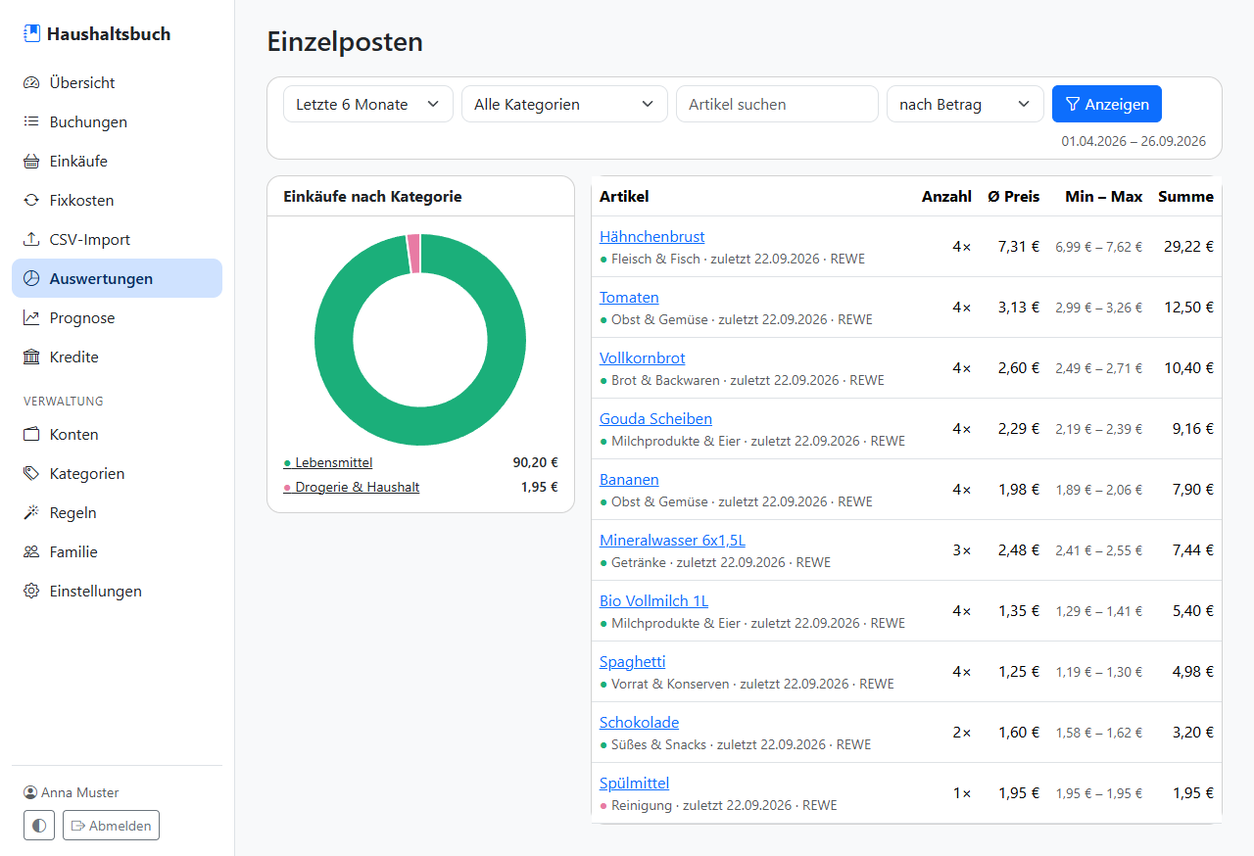
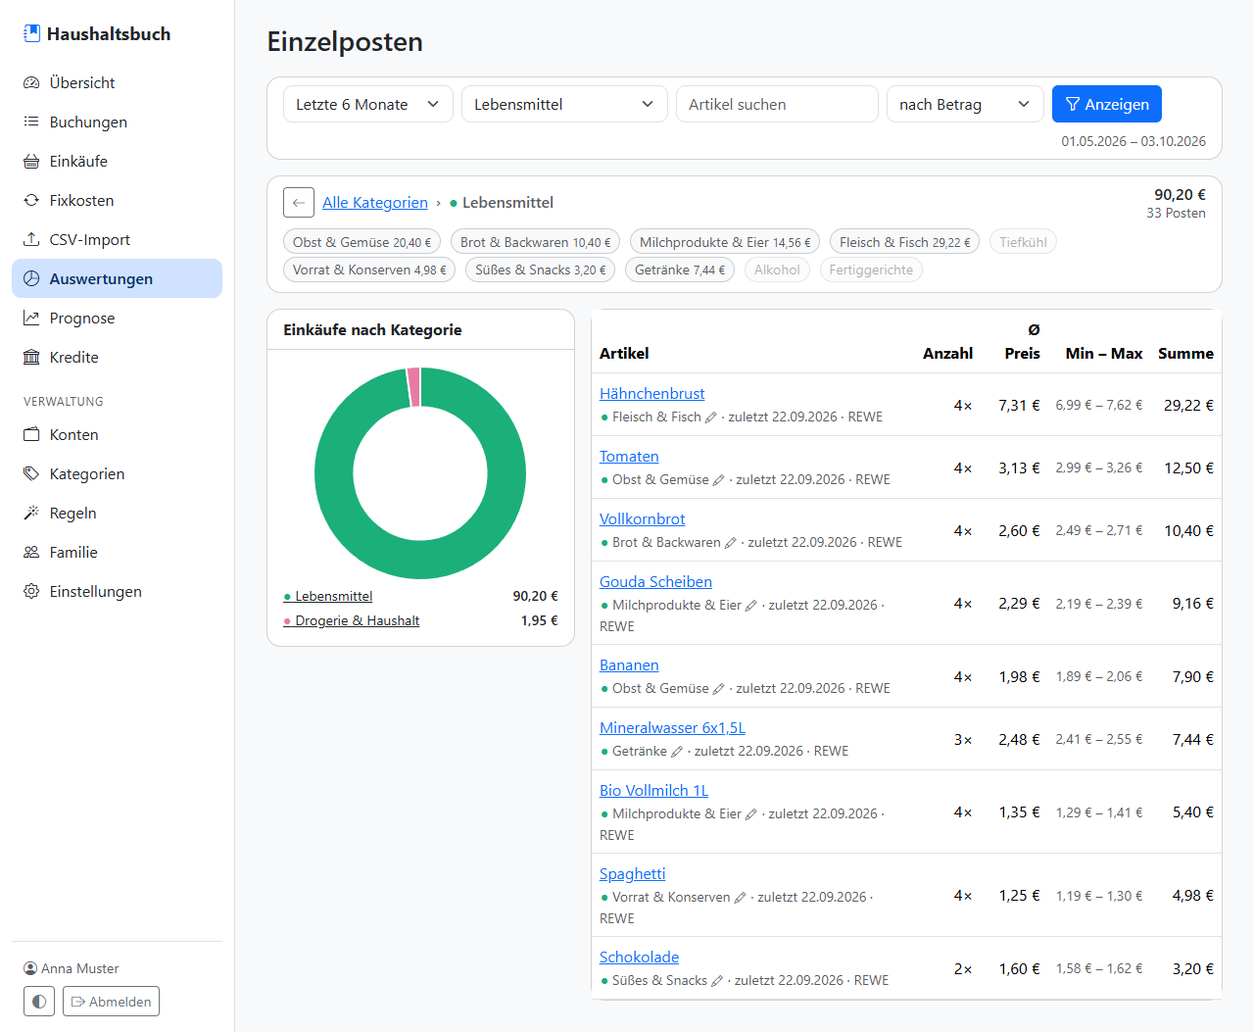
Einzelposten: Kategorie-Pfad mit Summe und Kategorie-Korrektur
- Zusammenfassungszeile unter dem Filter: Zurück-Pfeil, Breadcrumb
  (Alle › Ober- › Unterkategorie) mit Links, Summe und Anzahl der Posten;
  in einer Oberkategorie die Unterkategorien grau als Auswahl mit Summe
- Filter „Ohne Kategorie“ (category_id=0)
- Kategorie eines Artikels direkt in der Liste korrigieren: gilt für alle
  sichtbaren Käufe und wird als Produkt-Standard gelernt
- Auswertung nutzt durchgehend die wirksame Kategorie (Posten, sonst Produkt)
- Anleitung, README und Screenshot aktualisiert

diff --git a/public/assets/css/app.css b/public/assets/css/app.css
@@ -132,3 +132,9 @@ body.guest { display: flex; align-items: center; justify-content: center; min-he
 .more-grid a { display: flex; flex-direction: column; align-items: center; gap: .4rem; padding: 1.1rem .5rem; border-radius: var(--radius);
     background: var(--bs-body-bg); border: 1px solid var(--bs-border-color-translucent); color: var(--bs-body-color); text-decoration: none; }
 .more-grid a i { font-size: 1.7rem; color: var(--bs-primary); }
+
+/* Einzelposten: Kategorie-Pfad mit ausgegrauten Unterkategorien zur Auswahl */
+.breadcrumb { --bs-breadcrumb-divider: '›'; row-gap: .25rem; }
+.sub-choice { display: inline-block; margin: 0 .35rem .15rem 0; padding: .1rem .55rem; border-radius: 1rem; font-size: .875rem;
+    color: var(--bs-secondary-color); background: var(--bs-tertiary-bg); border: 1px solid var(--bs-border-color-translucent); text-decoration: none; }
+.sub-choice:hover { color: var(--bs-body-color); border-color: var(--bs-secondary-color); }

diff --git a/app/Views/reports/items.php b/app/Views/reports/items.php
@@ -4,6 +4,7 @@ use App\Core\View;
 ob_start(); ?>
 <select name="category_id" class="form-select w-auto">
     <option value="">Alle Kategorien</option>
+    <option value="0" <?= selected(0, $categoryId) ?>>Ohne Kategorie</option>
     <?php foreach ($categories as $c): ?><option value="<?= (int) $c['id'] ?>" <?= selected($c['id'], $categoryId) ?>><?= $c['parent_id'] ? '&nbsp;&nbsp;' : '' ?><?= e($c['name']) ?></option><?php endforeach; ?>
 </select>
 <input class="form-control w-auto" name="q" value="<?= e($q) ?>" placeholder="Artikel suchen">
@@ -14,6 +15,48 @@ ob_start(); ?>
 </select>
 <?php $extra = ob_get_clean(); ?>
 <?= View::partial('partials/period_filter', compact('period', 'from', 'to', 'extra') + ['action' => '/reports/items']) ?>
+
+<?php
+// Links der Breadcrumb-Zeile behalten Zeitraum, Suche und Sortierung
+$base = ['period' => $period, 'from' => $from, 'to' => $to, 'q' => $q !== '' ? $q : null, 'sort' => $sort !== 'total' ? $sort : null];
+$catUrl = fn (?int $id) => url('/reports/items', $base + ['category_id' => $id]);
+$upUrl = $categoryId === null ? null : $catUrl($parentCat ? (int) $parentCat['id'] : null);
+?>
+<div class="card mb-3">
+    <div class="card-body py-2">
+        <div class="d-flex align-items-center gap-2">
+            <?php if ($upUrl): ?>
+                <a class="btn btn-sm btn-outline-secondary" href="<?= e($upUrl) ?>" title="Eine Ebene höher" aria-label="Eine Ebene höher"><i class="bi bi-arrow-left"></i></a>
+            <?php endif; ?>
+            <nav aria-label="Kategorie-Pfad" class="flex-grow-1" style="min-width: 0">
+                <ol class="breadcrumb mb-0">
+                    <?php if ($categoryId === null): ?>
+                        <li class="breadcrumb-item active fw-semibold" aria-current="page">Alle Kategorien</li>
+                    <?php else: ?>
+                        <li class="breadcrumb-item"><a href="<?= e($catUrl(null)) ?>">Alle Kategorien</a></li>
+                        <?php if ($parentCat): ?>
+                            <li class="breadcrumb-item"><a href="<?= e($catUrl((int) $parentCat['id'])) ?>"><span style="color: <?= e($parentCat['color']) ?>">●</span> <?= e($parentCat['name']) ?></a></li>
+                        <?php endif; ?>
+                        <li class="breadcrumb-item active fw-semibold" aria-current="page">
+                            <?php if ($current): ?><span style="color: <?= e($current['color']) ?>">●</span> <?= e($current['name']) ?><?php else: ?>Ohne Kategorie<?php endif; ?>
+                        </li>
+                    <?php endif; ?>
+                </ol>
+            </nav>
+            <div class="text-end text-nowrap lh-sm">
+                <strong class="amount"><?= money($summary['total']) ?></strong>
+                <div class="small text-body-secondary"><?= (int) $summary['count'] ?> Posten<?= $q !== '' ? ' · Suche' : '' ?></div>
+            </div>
+        </div>
+        <?php if ($children): ?>
+            <div class="mt-2">
+                <?php foreach ($children as $ch): ?>
+                    <a class="sub-choice<?= $ch['total'] > 0 ? '' : ' opacity-50' ?>" href="<?= e($catUrl((int) $ch['id'])) ?>"><?= e($ch['name']) ?><?php if ($ch['total'] > 0): ?> <span class="small"><?= money($ch['total']) ?></span><?php endif; ?></a>
+                <?php endforeach; ?>
+            </div>
+        <?php endif; ?>
+    </div>
+</div>
 
 <?php
 $top = array_slice($byCategory, 0, 7);
@@ -48,15 +91,34 @@ if ($rest) {
                     <thead><tr><th>Artikel</th><th class="text-end">Anzahl</th><th class="text-end d-none d-md-table-cell">Ø Preis</th><th class="text-end d-none d-md-table-cell">Min – Max</th><th class="text-end">Summe</th></tr></thead>
                     <tbody>
                     <?php foreach ($rows as $r): ?>
-                        <tr>
+                        <?php $mixed = (int) $r['category_count'] > 1; ?>
+                        <tr x-data="{ edit: false }">
                             <td>
                                 <?php if ($r['product_id']): ?>
                                     <a href="<?= e(url('/reports/product', ['id' => $r['product_id']])) ?>"><?= e($r['name']) ?></a>
                                 <?php else: ?><?= e($r['name']) ?><?php endif; ?>
                                 <div class="small text-body-secondary">
-                                    <?php if ($r['category_name']): ?><span style="color: <?= e($r['category_color']) ?>">●</span> <?= e($r['category_name']) ?> · <?php endif; ?>
-                                    zuletzt <?= e(date_de($r['last_date'])) ?><?= $r['stores'] ? ' · ' . e(mb_strimwidth($r['stores'], 0, 40, '…')) : '' ?>
+                                    <button type="button" class="btn btn-link btn-sm p-0 align-baseline text-body-secondary text-decoration-none" @click="edit = !edit" title="Kategorie korrigieren">
+                                        <?php if ($mixed): ?>mehrere Kategorien
+                                        <?php elseif ($r['category_name']): ?><span style="color: <?= e($r['category_color']) ?>">●</span> <?= e($r['category_name']) ?>
+                                        <?php else: ?>ohne Kategorie<?php endif; ?>
+                                        <i class="bi bi-pencil small"></i>
+                                    </button>
+                                    · zuletzt <?= e(date_de($r['last_date'])) ?><?= $r['stores'] ? ' · ' . e(mb_strimwidth($r['stores'], 0, 40, '…')) : '' ?>
                                 </div>
+                                <form method="post" action="<?= e(url('/reports/items/category')) ?>" class="mt-2" x-show="edit" x-cloak style="display: none">
+                                    <?= csrf_field() ?>
+                                    <input type="hidden" name="product_id" value="<?= (int) $r['product_id'] ?>">
+                                    <input type="hidden" name="name" value="<?= e($r['item_name']) ?>">
+                                    <div class="d-flex gap-2">
+                                        <?= View::partial('partials/category_select', [
+                                            'categories' => $categories, 'name' => 'category_id', 'type' => 'expense',
+                                            'selected' => $mixed ? null : $r['category_id'], 'class' => 'form-select form-select-sm',
+                                        ]) ?>
+                                        <button class="btn btn-sm btn-primary text-nowrap"><i class="bi bi-check-lg"></i> Speichern</button>
+                                    </div>
+                                    <div class="form-text">Gilt für alle Käufe dieses Artikels<?= $r['product_id'] ? ' und künftige Vorschläge' : '' ?>.</div>
+                                </form>
                             </td>
                             <td class="text-end"><?= (int) $r['cnt'] ?>×</td>
                             <td class="table-amount d-none d-md-table-cell"><?= money($r['avg_price']) ?></td>

diff --git a/app/Services/ReportService.php b/app/Services/ReportService.php
@@ -212,24 +212,42 @@ final class ReportService
     }
 
     /**
+     * Wirksame Kategorie eines Postens (Alias i, Produkt pr): eigene Kategorie, sonst die gelernte des Produkts.
+     */
+    private const ITEM_CAT = 'COALESCE(i.category_id, pr.default_category_id)';
+
+    /**
+     * Gemeinsamer Filter der Einzelposten-Auswertung (Aliase i, p, pr).
+     * $categoryId: null = alle, 0 = ohne Kategorie, sonst die Kategorie samt Unterkategorien.
+     * @return array{0:string, 1:array}
+     */
+    private function itemScope(string $from, string $to, ?int $categoryId = null, string $q = ''): array
+    {
+        $sql = "p.household_id = ? AND (p.account_id IS NULL OR p.account_id IN ({$this->in()})) AND p.purchase_date BETWEEN ? AND ?";
+        $params = [$this->householdId, ...$this->accountIds, $from, $to];
+        if ($categoryId === 0) {
+            $sql .= ' AND ' . self::ITEM_CAT . ' IS NULL';
+        } elseif ($categoryId) {
+            $sql .= ' AND (' . self::ITEM_CAT . ' = ? OR ' . self::ITEM_CAT . ' IN (SELECT id FROM categories WHERE parent_id = ?))';
+            $params[] = $categoryId;
+            $params[] = $categoryId;
+        }
+        if ($q !== '') {
+            $sql .= ' AND (i.name LIKE ? OR pr.name LIKE ?)';
+            $like = '%' . str_replace(['%', '_'], ['\%', '\_'], $q) . '%';
+            $params[] = $like;
+            $params[] = $like;
+        }
+        return [$sql, $params];
+    }
+
+    /**
      * Einzelposten-Auswertung: gruppiert nach Produkt.
      * Einkäufe ohne Konto sind für alle sichtbar, sonst nur mit Leserecht auf das Konto.
      */
     public function items(string $from, string $to, ?int $categoryId = null, string $q = '', string $sort = 'total', int $limit = 200): array
     {
-        $params = [$this->householdId, ...$this->accountIds, $from, $to];
-        $where = '';
-        if ($categoryId) {
-            $where .= ' AND (i.category_id = ? OR i.category_id IN (SELECT id FROM categories WHERE parent_id = ?))';
-            $params[] = $categoryId;
-            $params[] = $categoryId;
-        }
-        if ($q !== '') {
-            $where .= ' AND (i.name LIKE ? OR pr.name LIKE ?)';
-            $like = '%' . str_replace(['%', '_'], ['\%', '\_'], $q) . '%';
-            $params[] = $like;
-            $params[] = $like;
-        }
+        [$where, $params] = $this->itemScope($from, $to, $categoryId, $q);
         $order = match ($sort) {
             'count' => 'cnt DESC',
             'name'  => 'name ASC',
@@ -237,38 +255,68 @@ final class ReportService
             default => 'total DESC',
         };
         return $this->rows(
-            "SELECT COALESCE(pr.id, 0) AS product_id, COALESCE(pr.name, i.name) AS name,
+            "SELECT COALESCE(pr.id, 0) AS product_id, COALESCE(pr.name, i.name) AS name, MIN(i.name) AS item_name,
                     COUNT(*) AS cnt, SUM(i.quantity) AS qty, SUM(i.total_price) AS total,
                     AVG(i.unit_price) AS avg_price, MIN(i.unit_price) AS min_price, MAX(i.unit_price) AS max_price,
                     MAX(p.purchase_date) AS last_date, GROUP_CONCAT(DISTINCT p.store SEPARATOR ', ') AS stores,
-                    c.name AS category_name, c.color AS category_color, c.icon AS category_icon
+                    MAX(c.id) AS category_id, MAX(c.name) AS category_name, MAX(c.color) AS category_color,
+                    COUNT(DISTINCT c.id) AS category_count
              FROM purchase_items i
              JOIN purchases p ON p.id = i.purchase_id
              LEFT JOIN products pr ON pr.id = i.product_id
-             LEFT JOIN categories c ON c.id = COALESCE(i.category_id, pr.default_category_id)
-             WHERE p.household_id = ? AND (p.account_id IS NULL OR p.account_id IN ({$this->in()}))
-               AND p.purchase_date BETWEEN ? AND ? $where
+             LEFT JOIN categories c ON c.id = " . self::ITEM_CAT . "
+             WHERE $where
              GROUP BY COALESCE(pr.id, CONCAT('n:', i.name))
              ORDER BY $order LIMIT " . (int) $limit,
             $params
         );
     }
 
-    /** Posten-Summen je Kategorie (nur Einkäufe) */
+    /** Summe und Anzahl der Posten zum Filter (unabhängig vom Zeilenlimit der Liste) */
+    public function itemsSummary(string $from, string $to, ?int $categoryId = null, string $q = ''): array
+    {
+        [$where, $params] = $this->itemScope($from, $to, $categoryId, $q);
+        $r = $this->rows(
+            "SELECT COALESCE(SUM(i.total_price), 0) AS total, COUNT(*) AS cnt
+             FROM purchase_items i JOIN purchases p ON p.id = i.purchase_id LEFT JOIN products pr ON pr.id = i.product_id
+             WHERE $where",
+            $params
+        )[0];
+        return ['total' => (float) $r['total'], 'count' => (int) $r['cnt']];
+    }
+
+    /** @return array<int, float> Unterkategorie-ID => Summe der Posten (nur Unterkategorien von $parentId) */
+    public function itemsBySubcategory(string $from, string $to, int $parentId, string $q = ''): array
+    {
+        [$where, $params] = $this->itemScope($from, $to, $parentId, $q);
+        $out = [];
+        foreach ($this->rows(
+            'SELECT ' . self::ITEM_CAT . " AS id, SUM(i.total_price) AS total
+             FROM purchase_items i JOIN purchases p ON p.id = i.purchase_id LEFT JOIN products pr ON pr.id = i.product_id
+             WHERE $where GROUP BY " . self::ITEM_CAT,
+            $params
+        ) as $r) {
+            $out[(int) $r['id']] = (float) $r['total'];
+        }
+        return $out;
+    }
+
+    /** Posten-Summen je Hauptkategorie (nur Einkäufe) */
     public function itemsByCategory(string $from, string $to): array
     {
+        [$where, $params] = $this->itemScope($from, $to);
         $rows = $this->rows(
             "SELECT COALESCE(c.parent_id, c.id) AS id, SUM(i.total_price) AS total, COUNT(*) AS cnt
              FROM purchase_items i JOIN purchases p ON p.id = i.purchase_id
-             LEFT JOIN categories c ON c.id = i.category_id
-             WHERE p.household_id = ? AND (p.account_id IS NULL OR p.account_id IN ({$this->in()}))
-               AND p.purchase_date BETWEEN ? AND ?
+             LEFT JOIN products pr ON pr.id = i.product_id
+             LEFT JOIN categories c ON c.id = " . self::ITEM_CAT . "
+             WHERE $where
              GROUP BY COALESCE(c.parent_id, c.id) ORDER BY total DESC",
-            [$this->householdId, ...$this->accountIds, $from, $to]
+            $params
         );
         $cats = $this->categoryMap();
         return array_map(fn ($r) => [
-            'id' => $r['id'] ? (int) $r['id'] : null,
+            'id' => $r['id'] ? (int) $r['id'] : 0,
             'name' => $r['id'] ? ($cats[(int) $r['id']]['name'] ?? '?') : 'Ohne Kategorie',
             'color' => $r['id'] ? ($cats[(int) $r['id']]['color'] ?? '#adb5bd') : '#adb5bd',
             'total' => (float) $r['total'], 'count' => (int) $r['cnt'],

diff --git a/app/Controllers/ReportController.php b/app/Controllers/ReportController.php
@@ -9,6 +9,7 @@ use App\Core\Response;
 use App\Repositories\AccountRepository;
 use App\Repositories\CategoryRepository;
 use App\Repositories\ProductRepository;
+use App\Repositories\PurchaseRepository;
 use App\Repositories\TransactionRepository;
 use App\Repositories\UserRepository;
 use App\Services\ReportService;
@@ -53,10 +54,29 @@ final class ReportController extends Controller
     public function items(): void
     {
         [$period, $from, $to] = $this->period('3m');
-        $categoryId = $this->request->int('category_id');
         $q = mb_substr($this->request->str('q'), 0, 100);
         $sort = in_array($this->request->str('sort'), ['total', 'count', 'name', 'price'], true) ? $this->request->str('sort') : 'total';
         $svc = new ReportService($this->hid, Auth::accountIds('view'));
+        $categories = (new CategoryRepository())->all($this->hid, 'expense');
+
+        // Kategorie-Filter: leer = alle, 0 = ohne Kategorie, sonst eine (Unter-)Kategorie des Haushalts
+        $categoryId = $this->request->int('category_id');
+        $byId = array_column($categories, null, 'id');
+        if ($categoryId && !isset($byId[$categoryId])) {
+            $categoryId = null;
+        }
+        $current = $categoryId ? $byId[$categoryId] : null;
+        $parentCat = $current && $current['parent_id'] ? ($byId[(int) $current['parent_id']] ?? null) : null;
+        $children = [];
+        if ($current && !$current['parent_id']) {
+            $sums = $svc->itemsBySubcategory($from, $to, (int) $current['id'], $q);
+            foreach ($categories as $c) {
+                if ((int) $c['parent_id'] === (int) $current['id']) {
+                    $children[] = $c + ['total' => $sums[(int) $c['id']] ?? 0.0];
+                }
+            }
+        }
+
         $this->view('reports/items', [
             'title'      => 'Einzelposten',
             'back'       => '/reports',
@@ -64,13 +84,40 @@ final class ReportController extends Controller
             'from'       => $from,
             'to'         => $to,
             'categoryId' => $categoryId,
+            'current'    => $current,
+            'parentCat'  => $parentCat,
+            'children'   => $children,
             'q'          => $q,
             'sort'       => $sort,
             'rows'       => $svc->items($from, $to, $categoryId, $q, $sort),
+            'summary'    => $svc->itemsSummary($from, $to, $categoryId, $q),
             'byCategory' => $svc->itemsByCategory($from, $to),
-            'categories' => (new CategoryRepository())->all($this->hid, 'expense'),
+            'categories' => $categories,
             'scripts'    => ['vendor/chartjs/chart.umd.min.js'],
         ]);
+    }
+
+    /** Kategorie eines Artikels in allen sichtbaren Einkäufen korrigieren und als Standard lernen */
+    public function recategorize(): void
+    {
+        $productId = $this->request->int('product_id') ?: null;
+        $name = mb_substr($this->request->str('name'), 0, 190);
+        $categoryId = (new CategoryRepository())->validId($this->request->int('category_id'), $this->hid);
+        $products = new ProductRepository();
+        if ($productId && !$products->find($productId, $this->hid)) {
+            $this->back('/reports/items', 'Artikel nicht gefunden.');
+        }
+        if (!$productId && $name === '') {
+            $this->back('/reports/items', 'Artikel fehlt.');
+        }
+        $repo = new PurchaseRepository();
+        $n = $repo->transaction(function () use ($repo, $products, $productId, $name, $categoryId) {
+            if ($productId) {
+                $products->setDefaultCategory($productId, $this->hid, $categoryId);
+            }
+            return $repo->recategorizeItems($this->hid, Auth::accountIds('view'), $productId, $name, $categoryId);
+        });
+        $this->back('/reports/items', $n === 1 ? 'Kategorie für 1 Posten geändert.' : "Kategorie für $n Posten geändert.", 'success');
     }
 
     public function product(): void

diff --git a/app/Repositories/PurchaseRepository.php b/app/Repositories/PurchaseRepository.php
@@ -97,6 +97,20 @@ final class PurchaseRepository extends Repository
         return $v ? (int) $v : null;
     }
 
+    /**
+     * Kategorie aller sichtbaren Posten eines Artikels ändern – über das Produkt oder, bei Posten ohne Produkt,
+     * über den exakten Namen. Gibt die Anzahl geänderter Posten zurück.
+     */
+    public function recategorizeItems(int $householdId, array $accountIds, ?int $productId, string $name, ?int $categoryId): int
+    {
+        $match = $productId ? 'i.product_id = ?' : 'i.product_id IS NULL AND i.name = ?';
+        return $this->exec(
+            'UPDATE purchase_items i JOIN purchases p ON p.id = i.purchase_id SET i.category_id = ?
+             WHERE p.household_id = ? AND ' . $this->visibleSql($accountIds) . " AND $match",
+            [$categoryId, $householdId, ...$accountIds, $productId ?: $name]
+        );
+    }
+
     public function items(int $purchaseId): array
     {
         return $this->many(

diff --git a/bin/screenshots.py b/bin/screenshots.py
@@ -46,7 +46,7 @@ SHOTS = [
     ("einkauf-foto-mobil", "/purchases/new?mode=photo", MOBILE, None, None),
     ("einkauf-hand", "/purchases/new?mode=manual", DESKTOP, None, 1100),
     ("auswertungen", "/reports?period=6m", DESKTOP, None, 1600),
-    ("auswertung-posten", "/reports/items?period=6m", DESKTOP, None, 1100),
+    ("auswertung-posten", "/reports/items?period=6m&category_id=1", DESKTOP, None, 1100),
     ("prognose", "/forecast", DESKTOP, None, 1500),
     ("szenario", "/forecast/scenarios/1/edit", DESKTOP, None, None),
     ("kredit", "/loans/1", DESKTOP, None, 1400),

diff --git a/app/routes.php b/app/routes.php
@@ -81,6 +81,7 @@ $router->post('/purchases/candidates', [PurchaseController::class, 'candidates']
 // Auswertungen & Prognose
 $router->get('/reports', [ReportController::class, 'index']);
 $router->get('/reports/items', [ReportController::class, 'items']);
+$router->post('/reports/items/category', [ReportController::class, 'recategorize']);
 $router->get('/reports/product', [ReportController::class, 'product']);
 $router->get('/reports/export', [ReportController::class, 'export']);
 $router->get('/forecast', [ForecastController::class, 'index']);

diff --git a/app/Repositories/ProductRepository.php b/app/Repositories/ProductRepository.php
@@ -36,6 +36,11 @@ final class ProductRepository extends Repository
         ]);
     }
 
+    public function setDefaultCategory(int $id, int $householdId, ?int $categoryId): void
+    {
+        $this->exec('UPDATE products SET default_category_id = ? WHERE id = ? AND household_id = ?', [$categoryId, $id, $householdId]);
+    }
+
     public function find(int $id, int $householdId): ?array
     {
         return $this->one('SELECT * FROM products WHERE id = ? AND household_id = ?', [$id, $householdId]);

diff --git a/README.md b/README.md
@@ -21,7 +21,7 @@ Alle Frontend-Bibliotheken liegen lokal unter `public/assets/vendor/`. Es wird k
 | **CSV-Import** | Profile für Sparkasse, ING, DKB, Volksbank/Raiffeisen, comdirect, Commerzbank, Postbank und N26, plus eigene Spaltenzuordnung. Erkennt Duplikate, vorgemerkte Umsätze und Buchungen aus Daueraufträgen (führt sie zusammen) und schlägt Kategorien vor. Umbuchungen zwischen eigenen Konten werden an der IBAN des Gegenkontos (sonst an der gegenläufigen Buchung) erkannt: vorhandene Gegenbuchung wird verknüpft, fehlende angelegt und beim Import des anderen Kontos zusammengeführt. |
 | **Einkäufe** | Posten von Hand, per **Foto** (Kamera direkt in der App, mehrere Fotos für lange Bons) oder per **PDF** (Rechnung/Einkaufsliste, auch gescannt). Erkennung **lokal im Browser** (Tesseract.js, kostenlos) oder per **KI** (Claude API). Verknüpfbar mit einer Kontobuchung. |
 | **Kategorien** | Zweistufig, gelten für Buchungen und Posten. Automatische Zuordnung in dieser Reihenfolge: eigene Regeln → Gelerntes (gleicher Empfänger, bekanntes Produkt, ähnliches Produkt) → eingebaute Stichwörter. Korrekturen werden gelernt. |
-| **Auswertungen** | Ausgaben nach Kategorie mit Drilldown, Monatsverlauf, gestapelt nach Kategorien, Top-Empfänger, Sparquote. Mit Einkäufen verknüpfte Buchungen werden nach Posten aufgeschlüsselt. Bei Filter auf ein Konto zählen Umbuchungen als Einnahme/Ausgabe (eigene Zeile „Umbuchungen“), damit die Bilanz des Kontos stimmt; über alle Konten bleiben sie außen vor. Einzelposten-Analyse mit Preisverlauf je Produkt. CSV-Export. |
+| **Auswertungen** | Ausgaben nach Kategorie mit Drilldown, Monatsverlauf, gestapelt nach Kategorien, Top-Empfänger, Sparquote. Mit Einkäufen verknüpfte Buchungen werden nach Posten aufgeschlüsselt. Bei Filter auf ein Konto zählen Umbuchungen als Einnahme/Ausgabe (eigene Zeile „Umbuchungen“), damit die Bilanz des Kontos stimmt; über alle Konten bleiben sie außen vor. Einzelposten-Analyse mit Kategorie-Pfad, Korrektur falsch zugeordneter Artikel und Preisverlauf je Produkt. CSV-Export. |
 | **Prognose** | Kontostände für 3 bis 36 Monate aus Fixkosten und dem Ø der variablen Ausgaben der letzten Monate (Aufschlüsselung je Konto; importierte Umbuchungen zwischen eigenen Konten werden erkannt, Einmaleffekte lassen sich über Kategorien ausklammern). **Szenarien:** je Konto einen eigenen variablen Monatswert festlegen (leer = berechneter Ø); der berechnete Ø läuft als gestrichelte Vergleichslinie mit. Warnt, wenn der Saldo negativ wird. |
 | **Kredite** | Annuitäten- und Tilgungsdarlehen, Sondertilgungen, Zins- und Ratenänderungen (Anschlussfinanzierung). Restschuld zu **jedem beliebigen Datum**, Tilgungsplan, Jahresübersicht. Rate optional als Fixkosten für die Prognose. |
 

diff --git a/docs/ANLEITUNG.md b/docs/ANLEITUNG.md
@@ -298,6 +298,15 @@ Einnahme bzw. Ausgabe (eigene Zeile „Umbuchungen“), damit die Bilanz dieses 
 **Einzelposten** (Knopf oben bzw. **Mehr → Einzelposten**) wertet die Einkäufe nach Artikeln aus: wie oft gekauft,
 Durchschnittspreis, günstigster und teuerster Preis. Ein Artikel anklicken zeigt seinen **Preisverlauf**.
 
+Unter dem Filter steht der **Kategorie-Pfad** mit der Summe aller gefundenen Posten. Ein Klick auf „Alle Kategorien“,
+die Hauptkategorie oder den Pfeil links führt eine Ebene höher. In einer Hauptkategorie erscheinen ihre
+Unterkategorien grau darunter (mit Summe) – ein Klick filtert darauf. Die Auswahl **Ohne Kategorie** im Filter zeigt
+Posten, denen noch keine Kategorie zugeordnet ist.
+
+**Kategorie korrigieren:** Steht ein Artikel in der falschen Kategorie, auf die Kategorie unter dem Artikelnamen
+(mit dem Stift) tippen, die richtige wählen und **Speichern**. Das ändert alle Käufe dieses Artikels und merkt sich die
+Kategorie für künftige Einkäufe.
+
 ![Einzelposten](anleitung/auswertung-posten.png)
 
 ---
